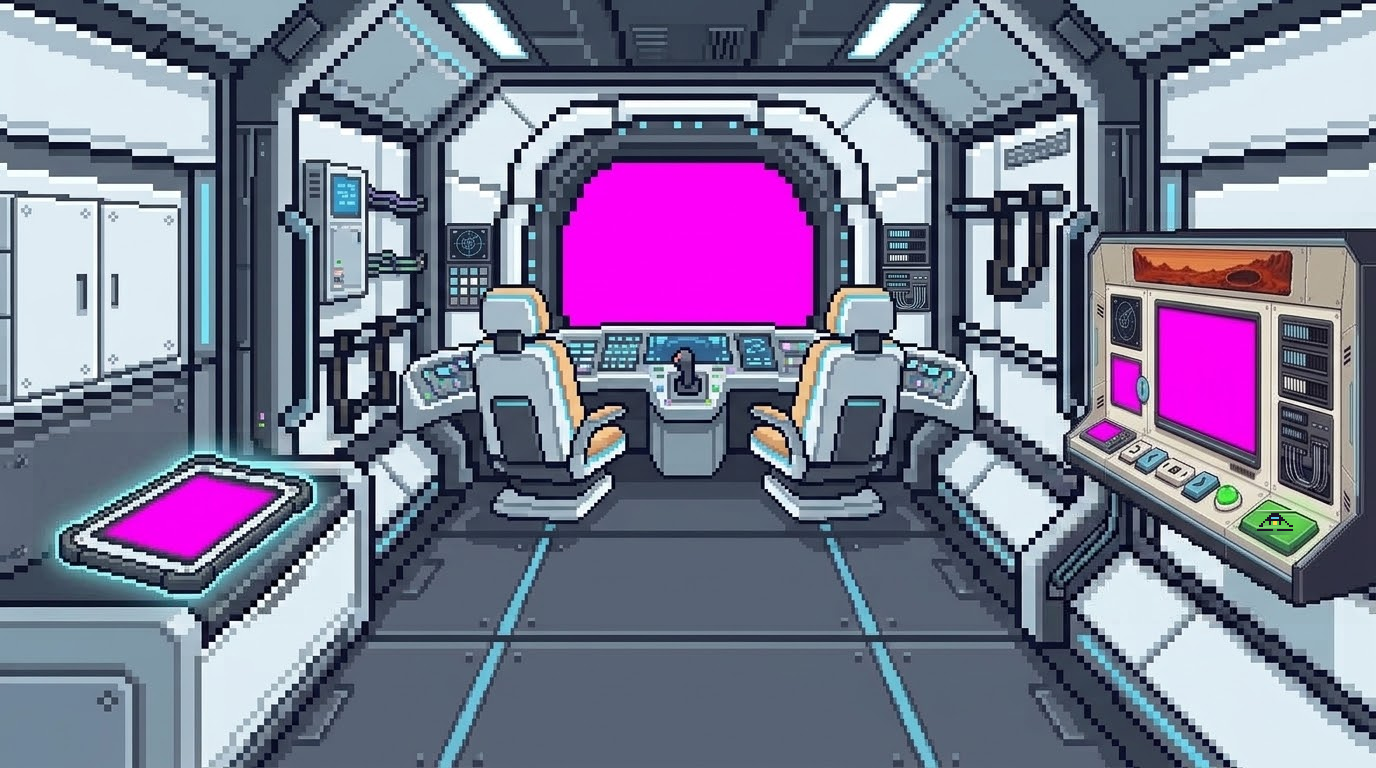
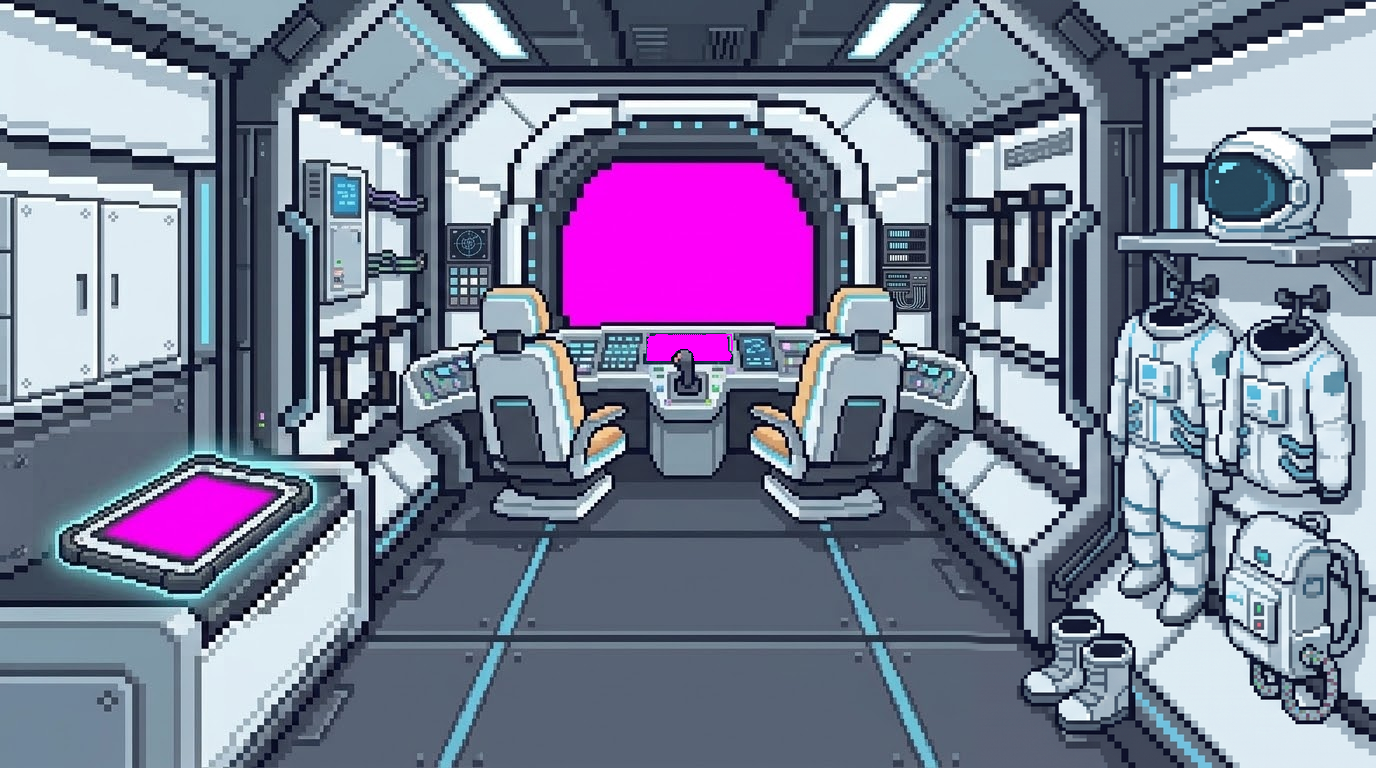
Cabina: los destinos se eligen en la pantalla del centro; trajes colgados a la derecha
- El monitor del costado se reemplaza por trajes, casco, botas y mochila
- La pantalla central del tablero muestra el mini mapa de Marte, se ilumina y abre la consola
- La altura del aterrizaje se ve en esa pantalla

Changed region(s): [[0.7188, 0.0, 1.0, 1.0], [0.4688, 0.4375, 0.5312, 0.4688]]

diff --git a/src/scenes/monitor/routeMap.ts b/src/scenes/monitor/routeMap.ts
@@ -1,13 +1,19 @@
 import type Phaser from 'phaser';
 import { LOCATIONS } from '../../content/locations';
-import { CONSOLE_ROUTE_SCREEN, MARS_MAP_POINTS, MARS_MAP_RECT, type Point } from '../../ui/layout';
+import {
+  CONSOLE_ROUTE_SCREEN,
+  MARS_MAP_POINTS,
+  MARS_MAP_RECT,
+  type Point,
+  type Rect,
+} from '../../ui/layout';
 import { PALETTE, TECH_GLOW } from '../../ui/palette';
 
 /**
  * Spec 18, scene 4 — The small route screen of the console: a tiny flat map of Mars with the
  * five destinations in the same places as the big Mars map (spec 12). The selected one blinks.
+ * The cabin dashboard shows it too, with nothing selected.
  */
-const SCREEN = CONSOLE_ROUTE_SCREEN;
 const DOT_SIZE = 3;
 const SELECTED_DOT_SIZE = 5;
 const BLINK_MS = 400;
@@ -15,11 +21,12 @@ const BLINK_MS = 400;
 export function drawRouteMap(
   scene: Phaser.Scene,
   selectedIndex: number,
+  screen: Rect = CONSOLE_ROUTE_SCREEN,
 ): Phaser.GameObjects.GameObject[] {
   const map = scene.add.graphics();
-  drawTinyMars(map);
+  drawTinyMars(map, screen);
   const dots = LOCATIONS.map((location, index) => {
-    const point = toScreen(MARS_MAP_POINTS[location.id] ?? { x: 0, y: 0 });
+    const point = toScreen(MARS_MAP_POINTS[location.id] ?? { x: 0, y: 0 }, screen);
     const selected = index === selectedIndex;
     const size = selected ? SELECTED_DOT_SIZE : DOT_SIZE;
     const dot = scene.add.rectangle(
@@ -36,22 +43,27 @@ export function drawRouteMap(
 }
 
 /** Same features as the big map, much simpler: rusty ground, polar cap, Tharsis and the canyon. */
-function drawTinyMars(graphics: Phaser.GameObjects.Graphics): void {
-  const { x, y, width, height } = SCREEN;
+function drawTinyMars(graphics: Phaser.GameObjects.Graphics, screen: Rect): void {
+  const { x, y, width, height } = screen;
+  // Positions as shares of the screen, so the map fits any screen size.
+  const at = (shareX: number, shareY: number): [number, number] => [
+    x + width * shareX,
+    y + height * shareY,
+  ];
   graphics.fillStyle(PALETTE.mars, 1).fillRect(x, y, width, height);
   graphics.fillStyle(PALETTE.marsLight, 1).fillRect(x, y + height * 0.6, width, height * 0.15);
-  graphics.fillStyle(PALETTE.white, 0.9).fillRect(x, y, width, 2);
-  graphics.fillStyle(PALETTE.white, 0.8).fillEllipse(x + width / 2, y + 3, width * 0.3, 3);
+  graphics.fillStyle(PALETTE.white, 0.9).fillRect(x, y, width, height * 0.08);
+  graphics.fillStyle(PALETTE.white, 0.8).fillEllipse(...at(0.5, 0.1), width * 0.3, height * 0.12);
   graphics
     .fillStyle(PALETTE.marsDark, 1)
-    .fillTriangle(x + 8, y + 15, x + 11, y + 10, x + 14, y + 15);
-  graphics.lineStyle(1, PALETTE.marsDark, 1).lineBetween(x + 20, y + 17, x + 34, y + 18);
+    .fillTriangle(...at(0.1, 0.55), ...at(0.14, 0.37), ...at(0.18, 0.55));
+  graphics.lineStyle(1, PALETTE.marsDark, 1).lineBetween(...at(0.25, 0.63), ...at(0.43, 0.67));
 }
 
-function toScreen(point: Point): Point {
+function toScreen(point: Point, screen: Rect): Point {
   return {
-    x: SCREEN.x + ((point.x - MARS_MAP_RECT.x) / MARS_MAP_RECT.width) * SCREEN.width,
-    y: SCREEN.y + ((point.y - MARS_MAP_RECT.y) / MARS_MAP_RECT.height) * SCREEN.height,
+    x: screen.x + ((point.x - MARS_MAP_RECT.x) / MARS_MAP_RECT.width) * screen.width,
+    y: screen.y + ((point.y - MARS_MAP_RECT.y) / MARS_MAP_RECT.height) * screen.height,
   };
 }
 

diff --git a/src/scenes/cabin/cabinView.ts b/src/scenes/cabin/cabinView.ts
@@ -2,8 +2,8 @@ import Phaser from 'phaser';
 import { INTRO_BALANCE } from '../../config/balance';
 import { addCoverPhoto } from '../../ui/coverPhoto';
 import {
-  CABIN_MONITOR_OUTLINE,
-  CABIN_MONITOR_SCREENS,
+  CABIN_DASHBOARD_OUTLINE,
+  CABIN_DASHBOARD_SCREEN,
   CABIN_TABLET_SCREEN,
   FONT_SIZE,
   type Rect,
@@ -25,8 +25,8 @@ const CREDIT_TEXT_SCALE = 0.6;
 const CREDIT_TEXT_RESOLUTION = 4;
 const HIGHLIGHT_MARGIN = 4;
 const SCREEN_GLOW = { dim: 0.2, bright: 0.45 } as const;
-const MONITOR_GLOW = { wide: 6, wideAlpha: 0.3, thin: 2, dimAlpha: 0.35 } as const;
-const MONITOR_GLOW_DEPTH = 15;
+const DASHBOARD_GLOW = { wide: 6, wideAlpha: 0.3, thin: 2, dimAlpha: 0.35, radius: 4 } as const;
+const DASHBOARD_GLOW_DEPTH = 15;
 
 /** The background goes on top of what is drawn behind its transparent screens. */
 export function addCabinBackground(
@@ -73,13 +73,13 @@ export function addPhotoCredit(
 }
 
 /**
- * Every small screen of the cabin (monitor and tablet) looks switched on: dark glass with a soft
+ * The cabin screens a kid can tap (dashboard and tablet) looks switched on: dark glass with a soft
  * cyan glow that breathes. Returned so the landing can put them inside its zooming layer.
  */
 export function drawCabinScreens(scene: Phaser.Scene): Phaser.GameObjects.GameObject[] {
   const graphics = scene.add.graphics();
   const parts: Phaser.GameObjects.GameObject[] = [graphics];
-  for (const { x, y, width, height } of [...CABIN_MONITOR_SCREENS, CABIN_TABLET_SCREEN]) {
+  for (const { x, y, width, height } of [CABIN_DASHBOARD_SCREEN, CABIN_TABLET_SCREEN]) {
     graphics.fillStyle(PALETTE.space, 1).fillRect(x - 2, y - 2, width + 4, height + 4);
     const glow = scene.add.rectangle(x, y, width, height, TECH_GLOW, SCREEN_GLOW.dim).setOrigin(0);
     scene.tweens.add({
@@ -95,17 +95,17 @@ export function drawCabinScreens(scene: Phaser.Scene): Phaser.GameObjects.GameOb
   return parts;
 }
 
-/** A breathing cyan edge around the monitor console, like the tablet's: "tap me". */
-export function addMonitorGlow(scene: Phaser.Scene): Phaser.GameObjects.Graphics {
-  const graphics = scene.add.graphics().setDepth(MONITOR_GLOW_DEPTH);
-  const outline = CABIN_MONITOR_OUTLINE.map(({ x, y }) => new Phaser.Math.Vector2(x, y));
-  graphics
-    .lineStyle(MONITOR_GLOW.wide, TECH_GLOW, MONITOR_GLOW.wideAlpha)
-    .strokePoints(outline, true);
-  graphics.lineStyle(MONITOR_GLOW.thin, TECH_GLOW, 1).strokePoints(outline, true);
+/** A breathing cyan edge around the dashboard screens, like the tablet's: "tap me". */
+export function addDashboardGlow(scene: Phaser.Scene): Phaser.GameObjects.Graphics {
+  const graphics = scene.add.graphics().setDepth(DASHBOARD_GLOW_DEPTH);
+  const { x, y, width, height } = CABIN_DASHBOARD_OUTLINE;
+  graphics.lineStyle(DASHBOARD_GLOW.wide, TECH_GLOW, DASHBOARD_GLOW.wideAlpha);
+  graphics.strokeRoundedRect(x, y, width, height, DASHBOARD_GLOW.radius);
+  graphics.lineStyle(DASHBOARD_GLOW.thin, TECH_GLOW, 1);
+  graphics.strokeRoundedRect(x, y, width, height, DASHBOARD_GLOW.radius);
   scene.tweens.add({
     targets: graphics,
-    alpha: MONITOR_GLOW.dimAlpha,
+    alpha: DASHBOARD_GLOW.dimAlpha,
     yoyo: true,
     repeat: -1,
     duration: INTRO_BALANCE.highlightPulseMs,

diff --git a/src/scenes/cabin/CabinScene.ts b/src/scenes/cabin/CabinScene.ts
@@ -5,19 +5,21 @@ import { loadProgress, saveProgress } from '../../services/progressStorage';
 import {
   CABIN_GUIDE_SCALE,
   CABIN_GUIDE_SPOT,
-  CABIN_MONITOR_ZONE,
+  CABIN_DASHBOARD_SCREEN,
+  CABIN_DASHBOARD_ZONE,
   CABIN_TABLET_ZONE,
   CABIN_WINDOW,
   type Rect,
 } from '../../ui/layout';
 import { PALETTE } from '../../ui/palette';
 import { addScanlines } from '../../ui/techFrame';
+import { drawRouteMap } from '../monitor/routeMap';
 import { SCENE_KEYS } from '../sceneKeys';
 import { INTRO_PHOTOS, preloadCabinArt, type CabinArtKey } from './cabinArt';
 import {
   addCabinBackground,
   addHighlight,
-  addMonitorGlow,
+  addDashboardGlow,
   addPhotoCredit,
   addWindowPhoto,
   drawCabinScreens,
@@ -28,7 +30,7 @@ import { showWelcomeExtra, WELCOME_STEPS, type CabinTarget } from './welcomeScri
 /**
  * Spec 18, scenes 1 and 3 — The ship cabin, fixed: nothing walks, a kid taps objects.
  * The window shows real Mars; the guide welcomes the player the first time; the tablet opens
- * the mission manual and the monitor opens the destination console. Tapping the guide replays
+ * the mission manual and the dashboard under the window opens the destination console. Tapping the guide replays
  * the welcome. Nothing here uses mission time.
  */
 export interface CabinSceneData {
@@ -39,7 +41,7 @@ export interface CabinSceneData {
 const TARGET_AREAS: Record<CabinTarget, Rect> = {
   window: CABIN_WINDOW,
   tablet: CABIN_TABLET_ZONE,
-  monitor: CABIN_MONITOR_ZONE,
+  monitor: CABIN_DASHBOARD_ZONE,
 };
 const GUIDE_FLOAT_PX = 6;
 const GUIDE_DEPTH = 20;
@@ -61,11 +63,12 @@ export class CabinScene extends Phaser.Scene {
   create(data: CabinSceneData = {}): void {
     addWindowPhoto(this, 'marsGlobe', CABIN_WINDOW);
     drawCabinScreens(this);
+    drawRouteMap(this, -1, CABIN_DASHBOARD_SCREEN);
     addCabinBackground(this, 'cabin');
     addPhotoCredit(this, CABIN_WINDOW, INTRO_PHOTOS.marsGlobe.credit);
     this.guide = this.addGuide();
     this.addTouchZone(CABIN_TABLET_ZONE, () => this.openManual());
-    this.addTouchZone(CABIN_MONITOR_ZONE, () => this.scene.start(SCENE_KEYS.monitor));
+    this.addTouchZone(CABIN_DASHBOARD_ZONE, () => this.scene.start(SCENE_KEYS.monitor));
     addScanlines(this);
     this.startMoment(data);
   }
@@ -119,7 +122,7 @@ export class CabinScene extends Phaser.Scene {
 
   private point(pose: CabinArtKey, target?: CabinTarget): void {
     this.moment.forEach((part) => part.destroy());
-    if (target === 'monitor') this.moment = [addMonitorGlow(this)];
+    if (target === 'monitor') this.moment = [addDashboardGlow(this)];
     else this.moment = target ? [addHighlight(this, TARGET_AREAS[target])] : [];
     this.guide.setTexture(pose);
   }

diff --git a/src/scenes/landing/LandingScene.ts b/src/scenes/landing/LandingScene.ts
@@ -4,14 +4,14 @@ import { photoTextureKey } from '../../content/locationPhotos';
 import { t } from '../../i18n';
 import { setCoverPhoto } from '../../ui/coverPhoto';
 import {
-  CABIN_MONITOR_SCREENS,
+  CABIN_DASHBOARD_SCREEN,
   GAME_HEIGHT,
   GAME_WIDTH,
   LANDING_SEATED_GUIDE,
   LANDING_SEATED_PLAYER,
   LANDING_WINDOW,
 } from '../../ui/layout';
-import { PALETTE, TECH_GLOW } from '../../ui/palette';
+import { PALETTE } from '../../ui/palette';
 import { addGlowText } from '../../ui/screenUi';
 import { SPRITE_SCALE } from '../../ui/sprites';
 import { addScanlines } from '../../ui/techFrame';
@@ -33,6 +33,9 @@ export interface LandingSceneData {
 }
 
 const SEATED_EXTRA_SHAKE = 0.6;
+/** The altitude is small and sharp, to fit the dashboard's little screen. */
+const ALTITUDE_TEXT = { scale: 0.6, resolution: 4 } as const;
+const ALTITUDE_TOP_SHARE = 0.3;
 
 export class LandingScene extends Phaser.Scene {
   private locationId = '';
@@ -90,9 +93,13 @@ export class LandingScene extends Phaser.Scene {
 
   private buildCabin(): void {
     this.buildWindow();
-    const screen = CABIN_MONITOR_SCREENS[0] ?? LANDING_WINDOW;
+    const screen = CABIN_DASHBOARD_SCREEN;
     const screens = drawCabinScreens(this);
-    this.altitude = this.addAltitude(screen.x + screen.width / 2, screen.y + screen.height / 2);
+    // On the upper half of the dashboard screen: the joystick covers the lower half.
+    this.altitude = this.addAltitude(
+      screen.x + screen.width / 2,
+      screen.y + ALTITUDE_TOP_SHARE * screen.height,
+    );
     const cabin = this.add.image(0, 0, 'cabin').setOrigin(0).setScale(SPRITE_SCALE);
     this.seated = [
       this.add.image(LANDING_SEATED_GUIDE.x, LANDING_SEATED_GUIDE.y, 'guideSeated'),
@@ -103,7 +110,8 @@ export class LandingScene extends Phaser.Scene {
   }
 
   private addAltitude(x: number, y: number): Phaser.GameObjects.Text {
-    return addGlowText(this, x, y, '', { color: TECH_GLOW });
+    const text = addGlowText(this, x, y, '', { color: PALETTE.white });
+    return text.setResolution(ALTITUDE_TEXT.resolution).setScale(ALTITUDE_TEXT.scale);
   }
 
   /** The cabin zooms toward the window; texts and buttons stay put on their own camera. */

diff --git a/src/ui/layout.ts b/src/ui/layout.ts
@@ -148,11 +148,8 @@ export const GARAGE_SPOT: Point = { x: 360, y: 212 };
  * holes, so whatever is drawn behind them (photos, screen content) shows through the glass.
  */
 export const CABIN_WINDOW: Rect = { x: 261, y: 75, width: 118, height: 77 };
-export const CABIN_MONITOR_SCREENS: readonly Rect[] = [
-  { x: 538, y: 143, width: 47, height: 68 },
-  { x: 517, y: 166, width: 14, height: 26 },
-  { x: 506, y: 196, width: 16, height: 10 },
-];
+/** Center screen of the dashboard, under the window: tapping it picks the destination. */
+export const CABIN_DASHBOARD_SCREEN: Rect = { x: 301, y: 155, width: 40, height: 13 };
 export const CABIN_TABLET_SCREEN: Rect = { x: 49, y: 221, width: 79, height: 39 };
 /**
  * The tablet lies on the table in perspective: its screen is a slanted quad, measured from the
@@ -166,19 +163,9 @@ export const CABIN_TABLET_QUAD = {
 } as const;
 /** Touch areas of the objects a kid can tap in the cabin. */
 export const CABIN_TABLET_ZONE: Rect = { x: 24, y: 204, width: 138, height: 74 };
-export const CABIN_MONITOR_ZONE: Rect = { x: 496, y: 108, width: 140, height: 172 };
-/** Outline of the monitor console, for its glowing edge when the guide points at it. */
-export const CABIN_MONITOR_OUTLINE: readonly Point[] = [
-  { x: 510, y: 112 },
-  { x: 628, y: 110 },
-  { x: 636, y: 126 },
-  { x: 636, y: 240 },
-  { x: 602, y: 272 },
-  { x: 497, y: 210 },
-  { x: 498, y: 200 },
-  { x: 506, y: 194 },
-  { x: 507, y: 118 },
-];
+export const CABIN_DASHBOARD_ZONE: Rect = { x: 262, y: 146, width: 116, height: 54 };
+/** Edge of the dashboard screens, for its glowing border when the guide points at it. */
+export const CABIN_DASHBOARD_OUTLINE: Rect = { x: 278, y: 151, width: 86, height: 26 };
 export const CABIN_GUIDE_SPOT: Point = { x: 125, y: 75 };
 /** The guide sprites are cut bigger than the rest of the kit. */
 export const CABIN_GUIDE_SCALE = 0.425;

diff --git a/docs/DECISIONS.md b/docs/DECISIONS.md
@@ -29,6 +29,13 @@ Formato:
 
 ---
 
+## 2026-11-15 — En la cabina, los destinos se eligen en el tablero del centro (spec 18)
+- Quién: C (Emilia), con Claude
+- Qué se decidió: el monitor del costado derecho de la cabina se reemplazó por un rincón con trajes colgados, casco, botas y mochila (editado con Gemini solo en esa zona; el resto del dibujo queda igual). Ahora se toca la pantalla del centro del tablero, debajo de la ventana, para abrir la consola de destinos; esa pantalla muestra el mini mapa de Marte y, durante el aterrizaje, la altura. La consola de destinos de cerca no cambia.
+- Por qué: al probarlo, lo intuitivo era tocar la pantalla del centro para elegir misión.
+- A quién afecta: solo el spec 18 (`cabina-fondo.png`, `layout.ts`: `CABIN_DASHBOARD_*` reemplaza a `CABIN_MONITOR_*`, que solo usaba el spec 18; textos `cabin.manualDone` y `cabin.again`).
+- ¿Avisado al equipo?: no todavía (va en el PR #33).
+
 ## 2026-11-15 — Ajustes de la intro después de probarla (spec 18)
 - Quién: C (Emilia), con Claude
 - Qué se decidió: al salir de una partida (resultado o ✕ en la base) se vuelve a la **nave** (cabina), no al mapa ni al monitor. El aterrizaje termina con un fundido a negro directo a la base (sin pantalla de "llegaste"). Los diálogos de la guía usan el panel y los botones normales del juego. En el monitor la pantalla grande muestra solo destino, nombre y fotos reales (el botón de la cámara pasa por **varias fotos NASA por destino**, en `src/content/locationGallery.ts`); la explicación, los objetivos y si se puede aterrizar aparecen con el botón i. La pantallita de ruta es un mini mapa de Marte. Los textos del manual son más explicativos.
